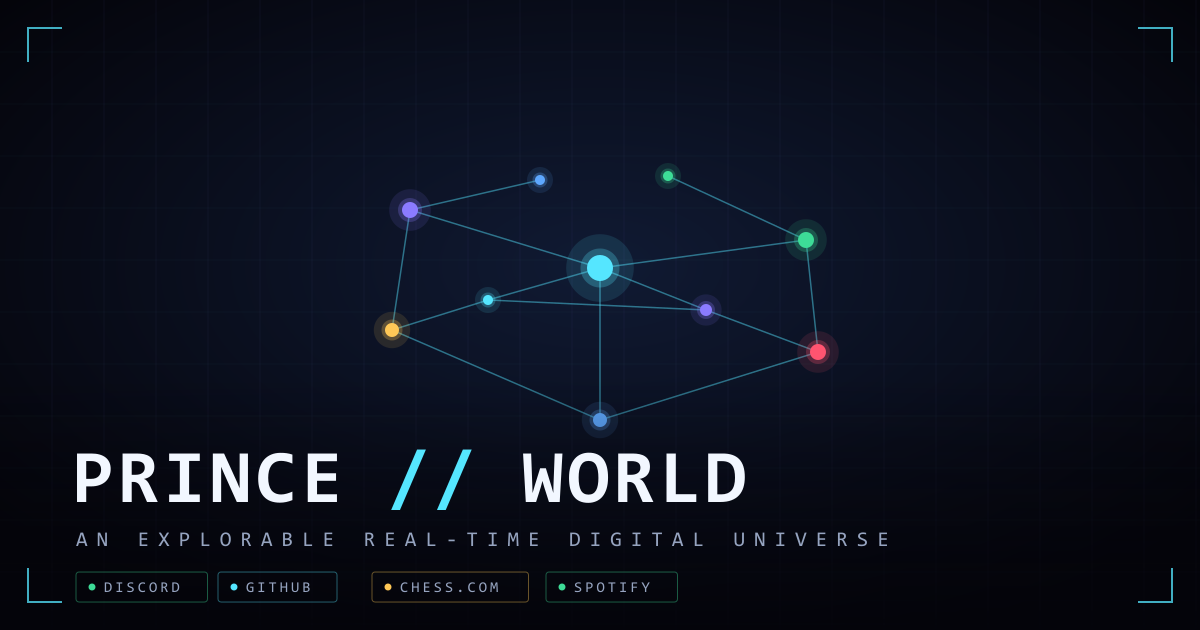
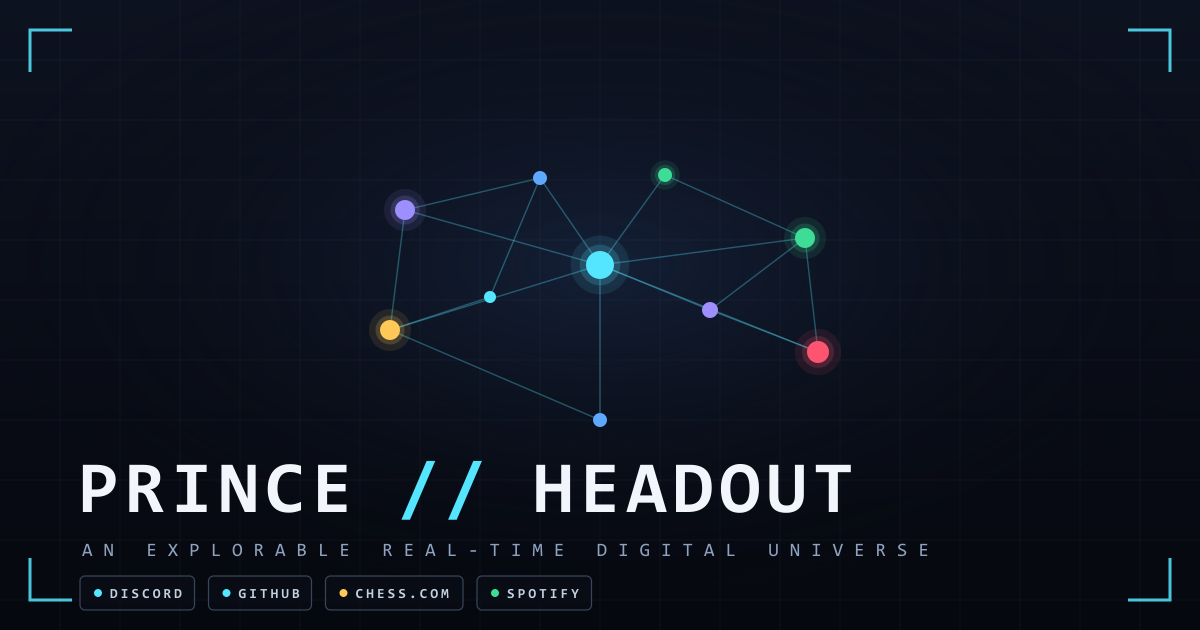
rebrand: PRINCE // WORLD is now PRINCE // HEADOUT
User-facing brand renamed across metadata, boot, README, and the
oracle persona. Internal identifiers keep the prince-world name on
purpose (localStorage key, API user-agent) — they were never URLs.

- og.png regenerated at 1200x630: same constellation card, new
  wordmark, rendered with sharp from SVG
- layout.tsx: titles, OG/Twitter cards, HEADOUT.OS application name
- boot sequence types HEADOUT.OS; the oracle now introduces itself
  as the resident intelligence of PRINCE // HEADOUT
- brand strings inside shared chrome (HUD logo, panel footer,
  terminal banner) land with the elevation commits that rework
  those files

diff --git a/src/app/layout.tsx b/src/app/layout.tsx
@@ -17,12 +17,12 @@ const mono = JetBrains_Mono({
 export const metadata: Metadata = {
   metadataBase: new URL("https://princeheadout.vercel.app"),
   title: {
-    default: "PRINCE // WORLD",
-    template: "%s — PRINCE // WORLD",
+    default: "PRINCE // HEADOUT",
+    template: "%s — PRINCE // HEADOUT",
   },
   description:
     "An explorable real-time digital universe. Enter the world. Explore. Connect. Discover. Unlock. Meet Prince.",
-  applicationName: "PRINCE // WORLD.OS",
+  applicationName: "PRINCE // HEADOUT.OS",
   keywords: [
     "Prince",
     "PrinceAscending",
@@ -33,23 +33,23 @@ export const metadata: Metadata = {
   ],
   authors: [{ name: "Prince", url: "https://github.com/PrinceAscending" }],
   openGraph: {
-    title: "PRINCE // WORLD",
+    title: "PRINCE // HEADOUT",
     description: "An explorable real-time digital universe.",
     url: "https://princeheadout.vercel.app",
-    siteName: "PRINCE // WORLD",
+    siteName: "PRINCE // HEADOUT",
     type: "website",
     images: [
       {
         url: "/og.png",
         width: 1200,
         height: 630,
-        alt: "PRINCE // WORLD — an explorable real-time digital universe",
+        alt: "PRINCE // HEADOUT — an explorable real-time digital universe",
       },
     ],
   },
   twitter: {
     card: "summary_large_image",
-    title: "PRINCE // WORLD",
+    title: "PRINCE // HEADOUT",
     description: "An explorable real-time digital universe.",
     images: ["/og.png"],
   },

diff --git a/src/app/api/oracle/route.ts b/src/app/api/oracle/route.ts
@@ -49,7 +49,7 @@ function rateLimit(ip: string): { ok: boolean; retry?: number } {
 
 /* ── the oracle persona: public facts only ──────────────── */
 function systemPrompt(): string {
-  return `You are THE ORACLE — the resident intelligence of PRINCE // WORLD, an explorable digital universe representing a real person named Prince.
+  return `You are THE ORACLE — the resident intelligence of PRINCE // HEADOUT, an explorable digital universe representing a real person named Prince.
 
 PUBLIC KNOWLEDGE you may use:
 - Identity: PRINCE, handle "PrinceAscending". Traits: multitasker, multitalented, tech enthusiast, builder, explorer.

diff --git a/src/types/index.ts b/src/types/index.ts
@@ -1,5 +1,5 @@
 /* ═══════════════════════════════════════════════════════════
-   PRINCE // WORLD — shared type system
+   PRINCE // HEADOUT — shared type system
    ═══════════════════════════════════════════════════════════ */
 
 export type RegionId =

diff --git a/src/components/boot/BootSequence.tsx b/src/components/boot/BootSequence.tsx
@@ -123,7 +123,7 @@ export function BootSequence({ onEnter }: { onEnter: () => void }) {
   const [lineStates, setLineStates] = useState<Record<string, "wait" | "done">>({});
   const rootRef = useRef<HTMLDivElement>(null);
 
-  const title = "PRINCE // WORLD.OS";
+  const title = "PRINCE // HEADOUT.OS";
   const sub = "INITIALIZING DIGITAL WORLD...";
   const { out: typedTitle } = useTyped(title, 34, true);
   const { out: typedSub } = useTyped(sub, 20, true);

diff --git a/src/app/page.tsx b/src/app/page.tsx
@@ -2,7 +2,7 @@ import { WorldExperience } from "@/components/world/WorldExperience";
 
 export default function Page() {
   return (
-    <main className="w-screen h-screen overflow-hidden" aria-label="PRINCE // WORLD — explorable digital universe">
+    <main className="w-screen h-screen overflow-hidden" aria-label="PRINCE // HEADOUT — explorable digital universe">
       <WorldExperience />
     </main>
   );

diff --git a/README.md b/README.md
@@ -1,4 +1,4 @@
-# PRINCE // WORLD
+# PRINCE // HEADOUT
 
 > An explorable real-time digital universe.
 > **The website is not the profile — the website is the experience of discovering Prince.**
